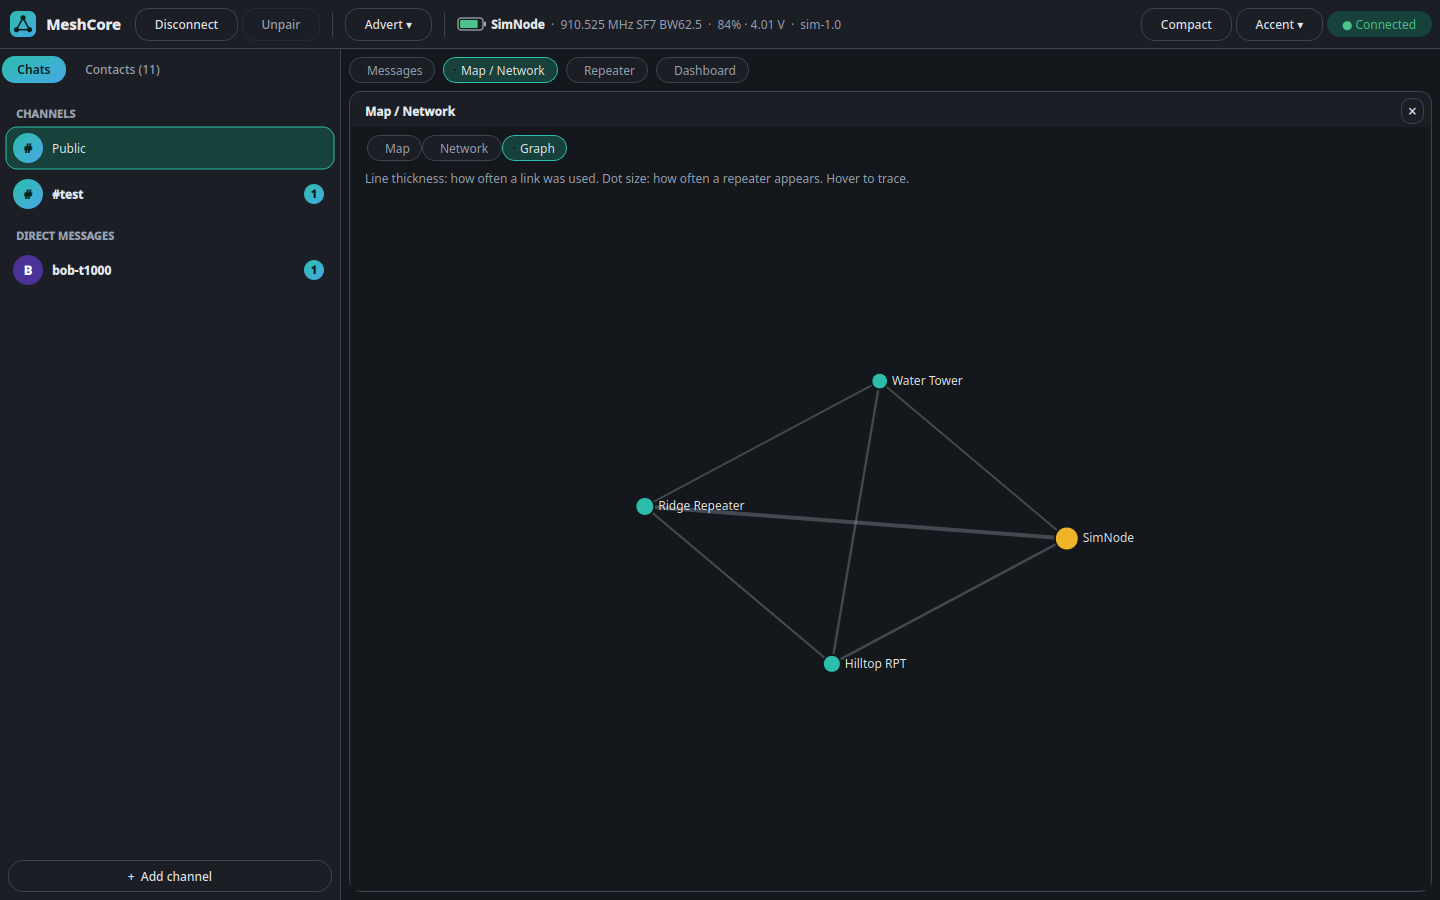
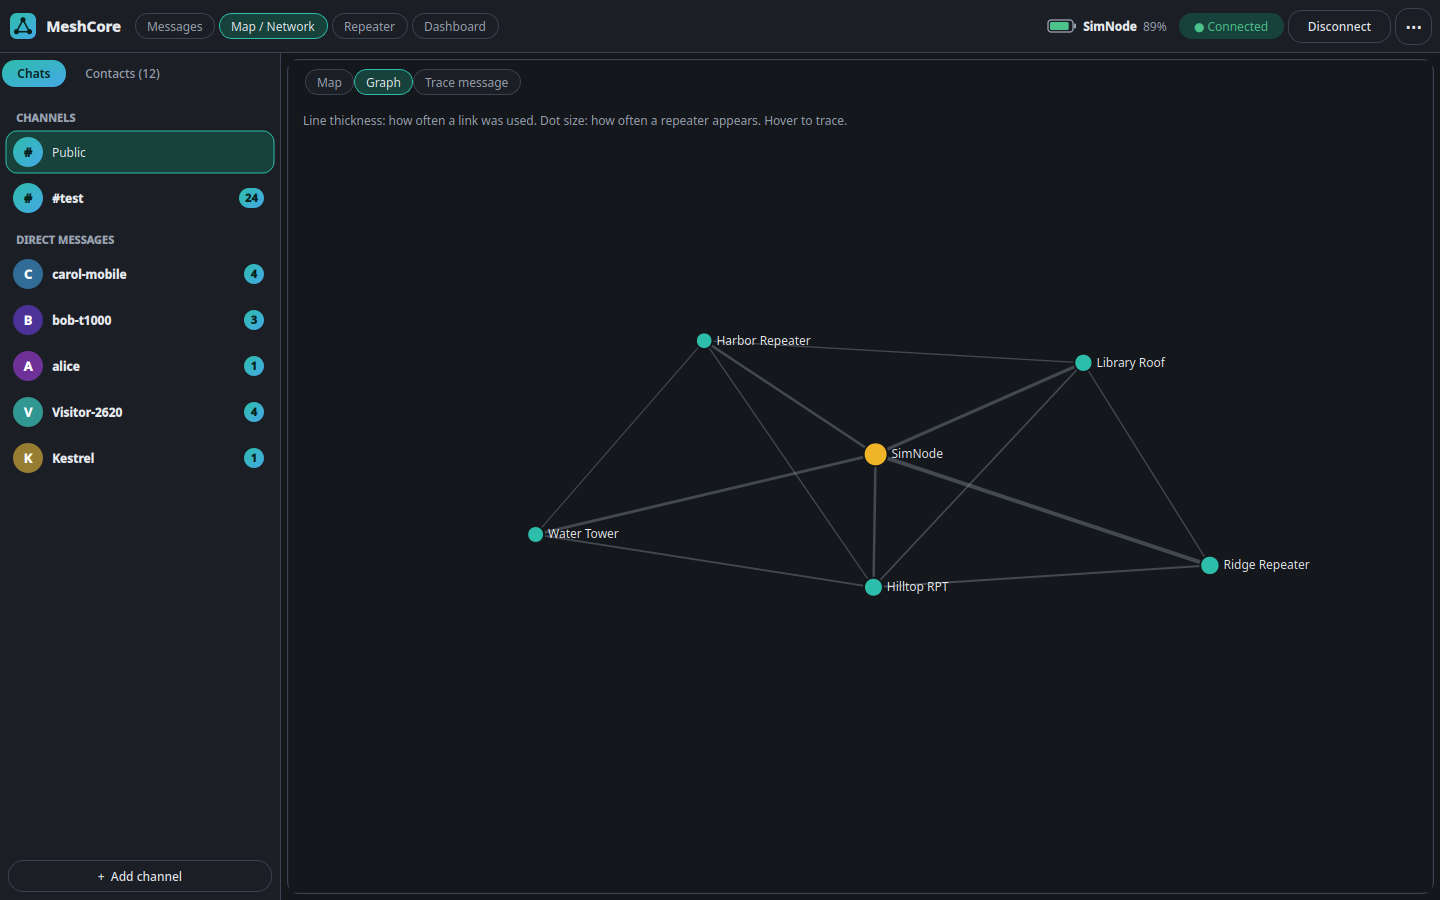
Refresh README screenshots for the v0.4 layout, add Trace message shot
- All screenshots retaken with the new toolbar, panels and details pane
- New docs/trace.png showing a traced message path
- README: Trace message in the screenshot table and feature list
- CHANGES-v0.4.txt in the same format as the v0.3 release notes

diff --git a/README.md b/README.md
@@ -9,10 +9,10 @@ A desktop chat app for a MeshCore node running companion firmware, over Bluetoot
 | Panels side by side | Map with node details |
 |---|---|
 | ![Panels](docs/panels.png) | ![Map](docs/map.png) |
-| **Relay graph** | **Repeater management** |
-| ![Graph](docs/graph.png) | ![Repeater](docs/repeater.png) |
-| **Live repeater stats** | |
-| ![Live](docs/live.png) | |
+| **Trace a message's path** | **Relay graph** |
+| ![Trace message](docs/trace.png) | ![Graph](docs/graph.png) |
+| **Repeater management** | **Live repeater stats** |
+| ![Repeater](docs/repeater.png) | ![Live](docs/live.png) |
 
 - Channels and direct messages, with unread counts and desktop notifications for DMs and @mentions
 - Replies (`@[Name]`, double-click or Ctrl+R a message), mentions highlighted
@@ -26,10 +26,11 @@ A desktop chat app for a MeshCore node running companion firmware, over Bluetoot
 - Live traffic: every packet your connected node receives, as it arrives, on the Dashboard
 - Dashboard with nodes heard, busiest repeaters and channel activity
 - Map / Network tab: switch between the map, where each packet your node hears draws its path, and a graph of who relays through whom
+- Trace message: with the map open, double-click a received message to draw the path it took in red
 - Repeater battery and noise history, kept each time you refresh a repeater
 - Light and dark themes that follow your system, with a choice of accent colours
 - Alerts when a new repeater or contact is heard for the first time, and a list of nodes found while the app was closed
-- Compact mode for small screens (toolbar button or Ctrl+M)
+- Fits small laptop screens: tiled panels resize and reflow instead of scrolling sideways, plus a compact mode (⋯ menu or Ctrl+M)
 - Sends zero-hop or flood adverts; sets the node's clock from the PC if it's behind
 - Messages saved per node (~/.local/share/meshcore-desktop on Linux, %LOCALAPPDATA%\MeshCore Desktop on
   Windows, or a `data` folder beside the packaged app); reconnects when the link drops
